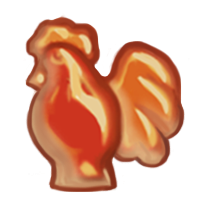
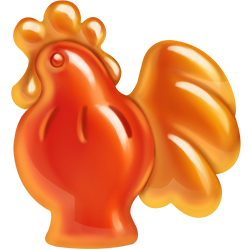
feat: refresh game artwork and board theme

diff --git a/src/assets/scss/blocks/b-game-tile.scss b/src/assets/scss/blocks/b-game-tile.scss
@@ -2,6 +2,7 @@
   display: inline-block;
   width: 3.5rem;
   height: 3.5rem;
+  background-image: var(--tile-background);
   background-size: cover;
 
   &--small {
@@ -9,43 +10,28 @@
     height: 2rem;
   }
 
-  &--air {
-    background-image: url("../../images/tile-air.png");
-  }
-
-  &--earth {
-    background-image: url("../../images/tile-earth.png");
-  }
-
-  &--fire {
-    background-image: url("../../images/tile-fire.png");
-  }
-
-  &--lightning {
-    background-image: url("../../images/tile-lightning.png");
-  }
-
-  &--water {
-    background-image: url("../../images/tile-water.png");
-  }
-
   &--sweets-barbaris {
-    background-image: url("../../images/tile-sweets-barbaris.png");
+    --tile-background: url("../../images/tile-sweets-barbaris.png");
+    --tile-selected-background: url("../../images/tile-sweets-barbaris-selected.png");
   }
 
   &--sweets-cookie {
-    background-image: url("../../images/tile-sweets-cookie.png");
+    --tile-background: url("../../images/tile-sweets-cookie.png");
+    --tile-selected-background: url("../../images/tile-sweets-cookie-selected.png");
   }
 
   &--sweets-lollipop {
-    background-image: url("../../images/tile-sweets-lollipop.png");
+    --tile-background: url("../../images/tile-sweets-lollipop.png");
+    --tile-selected-background: url("../../images/tile-sweets-lollipop-selected.png");
   }
 
   &--sweets-pillow {
-    background-image: url("../../images/tile-sweets-pillow.png");
+    --tile-background: url("../../images/tile-sweets-pillow.png");
+    --tile-selected-background: url("../../images/tile-sweets-pillow-selected.png");
   }
 
   &--sweets-souffle {
-    background-image: url("../../images/tile-sweets-souffle.png");
+    --tile-background: url("../../images/tile-sweets-souffle.png");
+    --tile-selected-background: url("../../images/tile-sweets-souffle-selected.png");
   }
 }

diff --git a/src/MainView.vue b/src/MainView.vue
@@ -1,6 +1,6 @@
 <template>
     <div class="b-game-layout d-flex flex-column flex-lg-row">
-        <aside class="b-game-layout__menu bg-primary-dark p-4 d-flex flex-column">
+        <aside class="b-game-layout__menu p-4 d-flex flex-column">
             <b-game-menu
                 :counters="counters"
                 :objectives="objectives"
@@ -16,7 +16,6 @@
                         <div
                             v-for="cell in cells"
                             :key="cell.key"
-                            :class="{ 'b-game-ground__cell--selected': cell.tile?.selected }"
                             class="b-game-ground__cell"
                         />
                     </div>
@@ -36,8 +35,8 @@
                 </div>
             </div>
 
-            <footer class="b-game-layout__footer pt-3 mt-3">
-                <div class="d-flex flex-column flex-sm-row gap-2 gap-sm-4 justify-content-center">
+            <footer class="b-game-layout__footer mt-3">
+                <div class="b-game-layout__footer-panel d-flex flex-column flex-sm-row gap-2 gap-sm-4 justify-content-center">
                     <span>
                         Code:
                         <a href="https://github.com/cmath10" class="b-game-layout__link">
@@ -77,7 +76,7 @@ import {
 
 import { TILE_TYPE } from '@/enums/game'
 
-type Cell = { key: string; tile: Tile | null }
+type Cell = { key: string }
 const WIDTH = 9
 const HEIGHT = 7
 
@@ -123,7 +122,7 @@ const getTileStyle = (tile: Tile) => ({
 })
 
 const getCells = (): Cell[] => grid.getTileList()
-  .flatMap((row, i) => row.map((tile, j) => ({ key: `${i}-${j}`, tile })))
+  .flatMap((row, i) => row.map((_, j) => ({ key: `${i}-${j}` })))
 
 const generateType = (i: number, j: number): TILE_TYPE => random(AVAILABLE_TILE_TYPES.filter(type => !createsMatch(type, i, j)))
 

diff --git a/src/assets/scss/blocks/b-game-ground.scss b/src/assets/scss/blocks/b-game-ground.scss
@@ -1,8 +1,8 @@
 @import "../variables";
-@import "../mixins/m-game-panel";
+@import "../mixins/m-game-glass-panel";
 
 .b-game-ground {
-  @include m-game-panel();
+  @include m-game-glass-panel();
 
   --cell-gap: 0.2rem;
   --tile-transition-duration: 0.48s;
@@ -17,6 +17,7 @@
 
   position: relative;
   display: inline-block;
+  padding: var(--panel-padding);
   overflow: hidden;
 
   &__cells {
@@ -32,13 +33,12 @@
     height: var(--cell-size);
     align-items: center;
     justify-content: center;
+    border: 1px solid rgba($white, 0.08);
+    border-radius: 0.35rem;
+    background: rgba($white, 0.025);
     cursor: pointer;
     user-select: none;
     background-size: cover;
-
-    &--selected {
-      filter: brightness(150%);
-    }
   }
 
   &__tiles {
@@ -55,11 +55,10 @@
     cursor: pointer;
     transition:
       transform var(--tile-transition-duration) cubic-bezier(0.22, 1, 0.36, 1),
-      opacity var(--tile-transition-duration) ease,
-      filter var(--tile-transition-duration) ease;
+      opacity var(--tile-transition-duration) ease;
 
     &--selected {
-      filter: brightness(150%);
+      background-image: var(--tile-selected-background);
     }
   }
 }

diff --git a/src/assets/scss/blocks/b-game-layout.scss b/src/assets/scss/blocks/b-game-layout.scss
@@ -1,4 +1,5 @@
 @import "../variables";
+@import "../mixins/m-game-glass-panel";
 
 .b-game-layout {
   --game-menu-inline-size: 18rem;
@@ -15,11 +16,19 @@
   &__menu {
     flex: 0 0 var(--game-menu-block-size);
     min-height: 0;
+    background:
+      linear-gradient(180deg, rgba($game-menu-bg, 0.98), rgba($game-menu-bg-dark, 1)),
+      $game-menu-bg;
+    border-right: 1px solid rgba($white, 0.08);
   }
 
   &__field {
+    position: relative;
     min-width: 0;
     min-height: 0;
+    background:
+      linear-gradient(rgba($primary, 0.28), rgba($primary-dark, 0.52)),
+      url("../../images/game-field-background.png") center / cover no-repeat;
   }
 
   &__board {
@@ -29,7 +38,13 @@
   &__footer {
     flex: 0 0 auto;
     color: rgba($white, 0.78);
-    border-top: 1px solid rgba($white, 0.14);
+  }
+
+  &__footer-panel {
+    @include m-game-glass-panel();
+
+    width: 100%;
+    padding: 0.85rem 1rem;
   }
 
   &__link {

diff --git a/src/components/blocks/BGameTile.vue b/src/components/blocks/BGameTile.vue
@@ -3,16 +3,7 @@
         :class="{
             'b-game-tile': true,
             'b-game-tile--small': small,
-            'b-game-tile--air': type === TILE_TYPE.ELEMENT_AIR,
-            'b-game-tile--earth': type === TILE_TYPE.ELEMENT_EARTH,
-            'b-game-tile--fire': type === TILE_TYPE.ELEMENT_FIRE,
-            'b-game-tile--lightning': type === TILE_TYPE.ELEMENT_LIGHTNING,
-            'b-game-tile--water': type === TILE_TYPE.ELEMENT_WATER,
-            'b-game-tile--sweets-barbaris': type === TILE_TYPE.SWEETS_BARBARIS,
-            'b-game-tile--sweets-cookie': type === TILE_TYPE.SWEETS_COOKIE,
-            'b-game-tile--sweets-lollipop': type === TILE_TYPE.SWEETS_LOLLIPOP,
-            'b-game-tile--sweets-pillow': type === TILE_TYPE.SWEETS_PILLOW,
-            'b-game-tile--sweets-souffle': type === TILE_TYPE.SWEETS_SOUFFLE,
+            [`b-game-tile--${type}`]: true,
         }"
     />
 </template>

diff --git a/src/enums/game.ts b/src/enums/game.ts
@@ -1,9 +1,4 @@
 export enum TILE_TYPE {
-  ELEMENT_AIR = 'air',
-  ELEMENT_EARTH = 'earth',
-  ELEMENT_FIRE = 'fire',
-  ELEMENT_LIGHTNING = 'lightning',
-  ELEMENT_WATER = 'water',
   SWEETS_BARBARIS = 'sweets-barbaris',
   SWEETS_COOKIE = 'sweets-cookie',
   SWEETS_LOLLIPOP = 'sweets-lollipop',

diff --git a/src/assets/scss/mixins/_m-game-glass-panel.scss b/src/assets/scss/mixins/_m-game-glass-panel.scss
@@ -1,0 +1,9 @@
+@import "../variables";
+
+@mixin m-game-glass-panel {
+  border: 1px solid rgba($white, 0.24);
+  border-radius: 0.5rem;
+  background: rgba($primary-dark, 0.54);
+  box-shadow: 0 0.8rem 2rem rgba($black, 0.22);
+  backdrop-filter: blur(14px) saturate(130%);
+}

diff --git a/src/assets/scss/_variables.scss b/src/assets/scss/_variables.scss
@@ -14,6 +14,8 @@ $black:    #000 !default;
 
 $primary: #181321;
 $primary-dark: color.adjust($primary, $lightness: -5%);
+$game-menu-bg: #241610;
+$game-menu-bg-dark: #160f0d;
 
 $theme-colors: (
   "light": $gray-100,
